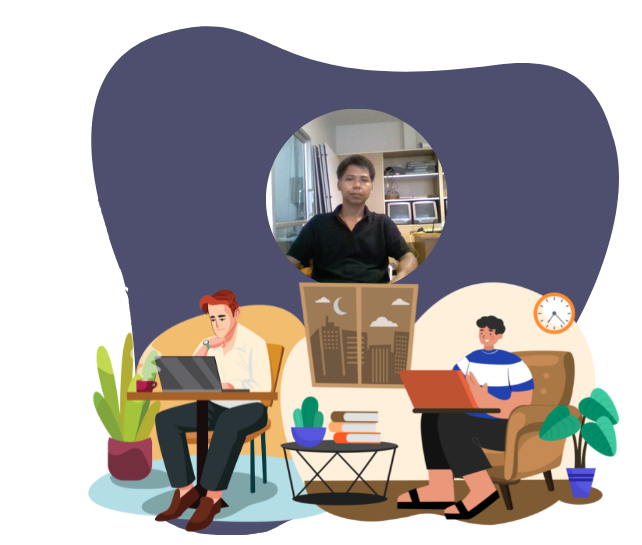
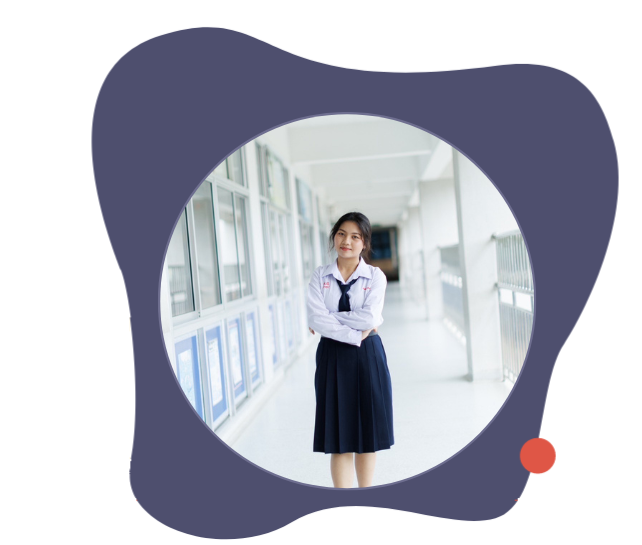
main

diff --git a/index.html b/index.html
@@ -6,11 +6,11 @@
     <meta charset="utf-8" />
     <meta http-equiv="x-ua-compatible" content="ie=edge" />
     <meta name="description" content="พอร์ตโฟลิโอ, ประวัติสวนตัว, พอร์ตเรียนต่อ, พอร์ตงาน, โปรไฟล์ของฉัน" />
-    <meta name="author" content="นายพัฒนา บุญถึง">
+    <meta name="author" content="นางสาว ขวัญข้าว เจริญจิต">
     <meta name="viewport" content="width=device-width, initial-scale=1, shrink-to-fit=no" />
 
     <!--====== Title ======-->
-    <title>นี่คือ...ฉัน - พอร์ตโฟลิโอ || หน้าแรก</title>
+    <title>นี่คือ ขวัญข้าว เจริญจิต- พอร์ตโฟลิโอ || หน้าแรก</title>
     <!--====== Favicon Icon ======-->
     <link rel="shortcut icon" href="assets/images/favicon.png" type="image/x-icon">
     <!--====== Google Fonts ======-->
@@ -82,8 +82,8 @@
                         <div class="container">
                             <div class="number-email-cv">
                                 <ul class="number-email">
-                                    <li>มือถือ: (+66) 09-7247-812888</li>
-                                    <li>อีเมล์: pattanadevelop@gmail.com</li>
+                                    <li>มือถือ: (+66) 08-8555-3545</li>
+                                    <li>อีเมล์: 27157@gmail.com</li>
                                 </ul>
                                     <li><a href="index.html">ไทย</a> | <a href="index-en.html">อังกฤษ</a></li>
                             </div>
@@ -91,11 +91,11 @@
                                 <div class="col-lg-5">
                                     <div class="about-content pt-100 rpt-0 animate-element delay5 fadeInUp">
                                         <span class="sub-title mb-15 animate-element delay3 fadeInUp">เกี่ยวกับฉัน</span>
-                                        <h2 class="slide-title animate-element delay5 fadeInUp">สวัสดีขอรับ,<br> ผม <span class="text-typed a-typed a-typed-about" data-text="พัฒนา บุญถึง"></span></h2>
+                                        <h2 class="slide-title animate-element delay5 fadeInUp">สวัสดีค่ะ,<br> ฉัน <span class="text-typed a-typed a-typed-about" data-text="ขัวญข้าว เจริญจิต"></span></h2>
                                         <h3 class="animate-element delay7 fadeInUp">โรงเรียนดาราสมุทร ศรีราชา</h3>
-                                        <p class="animate-element delay8 fadeInUp">วัน เดือน ปีเกิด<b>::)</b>  10 สิงหาคม 2521.</p>
-                                        <p class="animate-element delay8 fadeInUp">ชื่อเล่น<b>::)</b>  ยางมะตอย.</p>
-                                        <p class="animate-element delay8 fadeInUp">คติประจำใจ<b>::)</b>  อนาคตขึ้นอยู่กับสิ่งที่เราทำในปัจจุบัน.</p>
+                                        <p class="animate-element delay8 fadeInUp">วัน เดือน ปีเกิด<b>::)</b>  10 สิงหาคม 2549.</p>
+                                        <p class="animate-element delay8 fadeInUp">ชื่อเล่น<b>::)</b>  ใบเตย.</p>
+                                        <p class="animate-element delay8 fadeInUp">คติประจำใจ<b>::)</b>  ทำวันนี้ให้ดีที่สุด.</p>
                                         <div class="social-style-one mt-55 rmt-35 animate-element delay10 fadeInUp">
                                             <a href="https://www.facebook.com/sirachadevelop"><i class="fab fa-facebook-f"></i></a>
                                             <a href="https://www.twitter.com/sirachadevelop"><i class="fab fa-twitter"></i></a>
@@ -124,7 +124,7 @@
                                     <div class="service-image animate-element delay4 fadeInUp">
                                         <span class="sub-title mb-75">ไลท์สไตล์</span>
                                         <div class="service-inner-images">
-                                            <img src="assets/images/lifestyle/lifestyle.png" alt="Service">
+                                            <img src="assets/images/lifestyle/lifestyles.png" alt="Service">
                                             <img class="shape-one animate-element delay6 bounceIn" src="assets/images/lifestyle/shape-one-dark.png" alt="shape">
                                             <img class="shape-two animate-element delay8 bounceIn" src="assets/images/lifestyle/shape-two-dark.png" alt="shape">
                                         </div>
@@ -147,7 +147,7 @@
                                                 <div class="icon">
                                                     <img src="assets/images/lifestyle/service-icon2.png" alt="Icon">
                                                 </div>
-                                                <h4>เล่นเฟสต์บุ๊ค</h4>
+                                                <h4>เล่นกีฬา</h4>
                                             </div>
                                             <div class="service-item">
                                                 <div class="icon">
@@ -310,28 +310,28 @@
                             </div>
                             <div class="portfolio-wrap">
                                 <div class="portfolio-item animate-element delay11 fadeInUp">
-                                    <img src="assets/images/portfolio/portfolio_1.png" alt="Portfolio">
+                                    <img src="assets/images/portfolio/port01.png" alt="Portfolio">
                                 </div>
                                 <div class="portfolio-item animate-element delay13 fadeInUp">
-                                    <img src="assets/images/portfolio/portfolio_2.png" alt="Portfolio">
+                                    <img src="assets/images/portfolio/port02.png" alt="Portfolio">
                                 </div>
                                 <div class="portfolio-item">
-                                    <img src="assets/images/portfolio/portfolio_3.png" alt="Portfolio">
+                                    <img src="assets/images/portfolio/port03.png" alt="Portfolio">
                                 </div>
                                 <div class="portfolio-item">
-                                    <img src="assets/images/portfolio/portfolio_4.png" alt="Portfolio">
+                                    <img src="assets/images/portfolio/port04.png" alt="Portfolio">
                                 </div>
                                 <div class="portfolio-item">
-                                    <img src="assets/images/portfolio/portfolio_5.png" alt="Portfolio">
+                                    <img src="assets/images/portfolio/port05.png" alt="Portfolio">
                                 </div>
                                 <div class="portfolio-item">
-                                    <img src="assets/images/portfolio/portfolio_6.png" alt="Portfolio">
+                                    <img src="assets/images/portfolio/port06.png" alt="Portfolio">
                                 </div>
                                 <div class="portfolio-item">
-                                    <img src="assets/images/portfolio/portfolio_7.png" alt="Portfolio">
+                                    <img src="assets/images/portfolio/port01.png" alt="Portfolio">
                                 </div>
                                 <div class="portfolio-item">
-                                    <img src="assets/images/portfolio/portfolio_8.png" alt="Portfolio">
+                                    <img src="assets/images/portfolio/port05.png" alt="Portfolio">
                                 </div>
                             </div>
                         </div>
@@ -347,12 +347,12 @@
                                    <h2>ช่องทางการติดต่อ สื่อสาร</h2>
                                </div>
                                <span class="country list-inline-item animate-element delay9 fadeInUp">ศรีราชา, ชลบุรี</span>
-                               <h3 class="animate-element delay6 fadeInUp">pattanadevelop@gmail.com</h3>
-                               <h4 class="number list-inline-item animate-element delay10 fadeInUp">(+66) 09-7247-8128</h4>
+                               <h3 class="animate-element delay6 fadeInUp">27157@gmail.com</h3>
+                               <h4 class="number list-inline-item animate-element delay10 fadeInUp">(+66) 08-8555-3545</h4>
                            </div>
                         </div>
                         <div class="footer-bottom-girl animate-element delay12 zoomIn">
-                           <img src="assets/images/contact/contact.png" alt="Footer Contact">
+                           <img src="assets/images/contact/images.png" alt="Footer Contact">
                        </div>
                         <div class="footer-bottom-shape">
                             <img src="assets/images/contact/footer-bottom-shape.png" alt="Shape">

diff --git a/index-en.html b/index-en.html
@@ -6,7 +6,7 @@
     <meta charset="utf-8" />
     <meta http-equiv="x-ua-compatible" content="ie=edge" />
     <meta name="description" content="Port Folio, CV, Resume, Profiles, Portfolio" />
-    <meta name="author" content="Mr.Pattana Boonthung">
+    <meta name="author" content="Mss.Kwankhao Charoenjit">
     <meta name="viewport" content="width=device-width, initial-scale=1, shrink-to-fit=no" />
 
     <!--====== Title ======-->
@@ -80,8 +80,8 @@
                         <div class="container">
                             <div class="number-email-cv">
                                 <ul class="number-email">
-                                    <li>Call me:(+66) 09-7247-8128</li>
-                                    <li>pattanadevelop@gmail.com</li>
+                                    <li>Call me:(+66) 08-8555-3545</li>
+                                    <li>27157@gmail.com</li>
                                 </ul>
                                     <li><a href="index.html">Thai</a> | <a href="index-en.html">English</a></li>
                             </div>
@@ -91,8 +91,8 @@
                                         <span class="sub-title mb-15 animate-element delay3 fadeInUp">About Me</span>
                                         <h2 class="slide-title animate-element delay5 fadeInUp">Hi,<br> I’m <span class="text-typed a-typed a-typed-about" data-text="Pattana Boonthung"></span></h2>
                                         <h3 class="animate-element delay7 fadeInUp">Darasamutr School</h3>
-                                        <p class="animate-element delay8 fadeInUp">Birthday<b>:</b>  10 August 1992.</p>
-                                        <p class="animate-element delay8 fadeInUp">Nickname<b>:</b>  Ma-Toy.</p>
+                                        <p class="animate-element delay8 fadeInUp">Birthday<b>:</b>  10 August 2006.</p>
+                                        <p class="animate-element delay8 fadeInUp">Nickname<b>:</b> Bitey.</p>
                                         <p class="animate-element delay8 fadeInUp">Epigram<b>:</b>  The future depends on what we do in the present.</p>
                                         <div class="social-style-one mt-55 rmt-35 animate-element delay10 fadeInUp">
                                             <a href="https://www.facebook.com/sirachadevelop"><i class="fab fa-facebook-f"></i></a>
@@ -122,7 +122,7 @@
                                     <div class="service-image animate-element delay4 fadeInUp">
                                         <span class="sub-title mb-75">Lifestyle</span>
                                         <div class="service-inner-images">
-                                            <img src="assets/images/lifestyle/lifestyle.png" alt="Service">
+                                            <img src="assets/images/lifestyle/lifestyles.png" alt="Service">
                                             <img class="shape-one animate-element delay6 bounceIn" src="assets/images/lifestyle/shape-one-dark.png" alt="shape">
                                             <img class="shape-two animate-element delay8 bounceIn" src="assets/images/lifestyle/shape-two-dark.png" alt="shape">
                                         </div>
@@ -145,7 +145,7 @@
                                                 <div class="icon">
                                                     <img src="assets/images/lifestyle/service-icon2.png" alt="Icon">
                                                 </div>
-                                                <h4>Facebook</h4>
+                                                <h4>Play Spot</h4>
                                             </div>
                                             <div class="service-item">
                                                 <div class="icon">
@@ -309,28 +309,28 @@
                               </div>
                             <div class="portfolio-wrap">
                                 <div class="portfolio-item animate-element delay11 fadeInUp">
-                                    <img src="assets/images/portfolio/portfolio_1.png" alt="Portfolio">
+                                    <img src="assets/images/portfolio/port01.png" alt="Portfolio">
                                 </div>
                                 <div class="portfolio-item animate-element delay13 fadeInUp">
-                                    <img src="assets/images/portfolio/portfolio_2.png" alt="Portfolio">
+                                    <img src="assets/images/portfolio/port02.png" alt="Portfolio">
                                 </div>
                                 <div class="portfolio-item">
-                                    <img src="assets/images/portfolio/portfolio_3.png" alt="Portfolio">
+                                    <img src="assets/images/portfolio/port03.png" alt="Portfolio">
                                 </div>
                                 <div class="portfolio-item">
-                                    <img src="assets/images/portfolio/portfolio_4.png" alt="Portfolio">
+                                    <img src="assets/images/portfolio/port04.png" alt="Portfolio">
                                 </div>
                                 <div class="portfolio-item">
-                                    <img src="assets/images/portfolio/portfolio_5.png" alt="Portfolio">
+                                    <img src="assets/images/portfolio/port05.png" alt="Portfolio">
                                 </div>
                                 <div class="portfolio-item">
-                                    <img src="assets/images/portfolio/portfolio_6.png" alt="Portfolio">
+                                    <img src="assets/images/portfolio/port06.png" alt="Portfolio">
                                 </div>
                                 <div class="portfolio-item">
-                                    <img src="assets/images/portfolio/portfolio_7.png" alt="Portfolio">
+                                    <img src="assets/images/portfolio/port01.png" alt="Portfolio">
                                 </div>
                                 <div class="portfolio-item">
-                                    <img src="assets/images/portfolio/portfolio_8.png" alt="Portfolio">
+                                    <img src="assets/images/portfolio/port05.png" alt="Portfolio">
                                 </div>
                             </div>
                         </div>
@@ -344,8 +344,8 @@
                                    <h2>Stay Connected</h2>
                                </div>
                                <span class="country list-inline-item animate-element delay9 fadeInUp">Si Racha, Chonburi</span>
-                               <h3 class="animate-element delay6 fadeInUp">pattanadevelop@gmail.com</h3>
-                               <h4 class="number list-inline-item animate-element delay10 fadeInUp">(+66) 09-7247-8128</h4>
+                               <h3 class="animate-element delay6 fadeInUp">27157@gmail.com</h3>
+                               <h4 class="number list-inline-item animate-element delay10 fadeInUp">(+66) 08-8555-3545</h4>
                                <!--<div class="social-style-two mt-25 animate-element delay11 fadeInUp">
                                     <a href="#"><img src="assets/images/contact/social-dribbble.png" alt="Social"></a>
                                     <a href="#"><img src="assets/images/contact/social-behance.png" alt="Social"></a>
@@ -354,7 +354,7 @@
                            </div>
                         </div>
                         <div class="footer-bottom-girl animate-element delay12 zoomIn">
-                           <img src="assets/images/contact/contact.png" alt="Footer Contact">
+                           <img src="assets/images/contact/images.png" alt="Footer Contact">
                        </div>
                         <div class="footer-bottom-shape">
                             <img src="assets/images/contact/footer-bottom-shape.png" alt="Shape">
